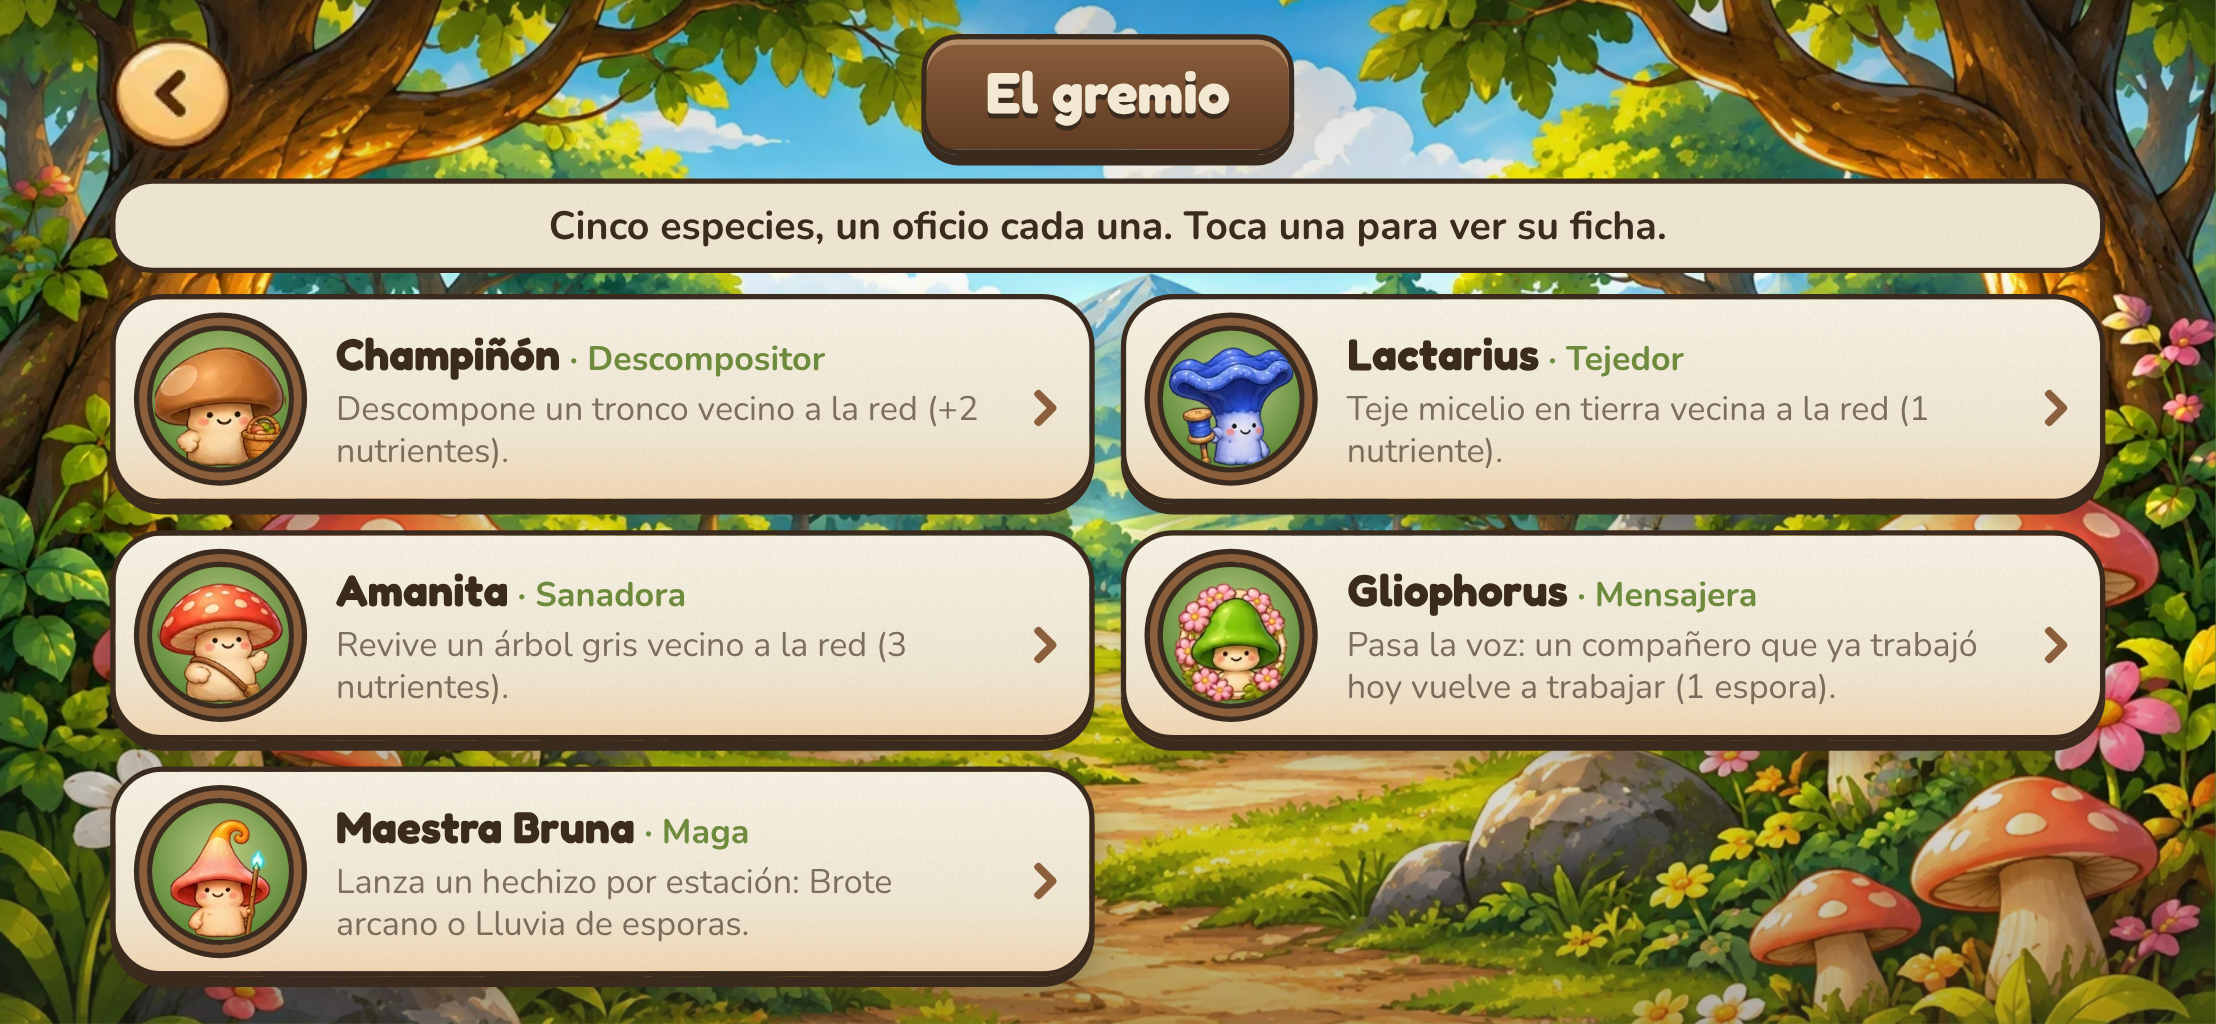
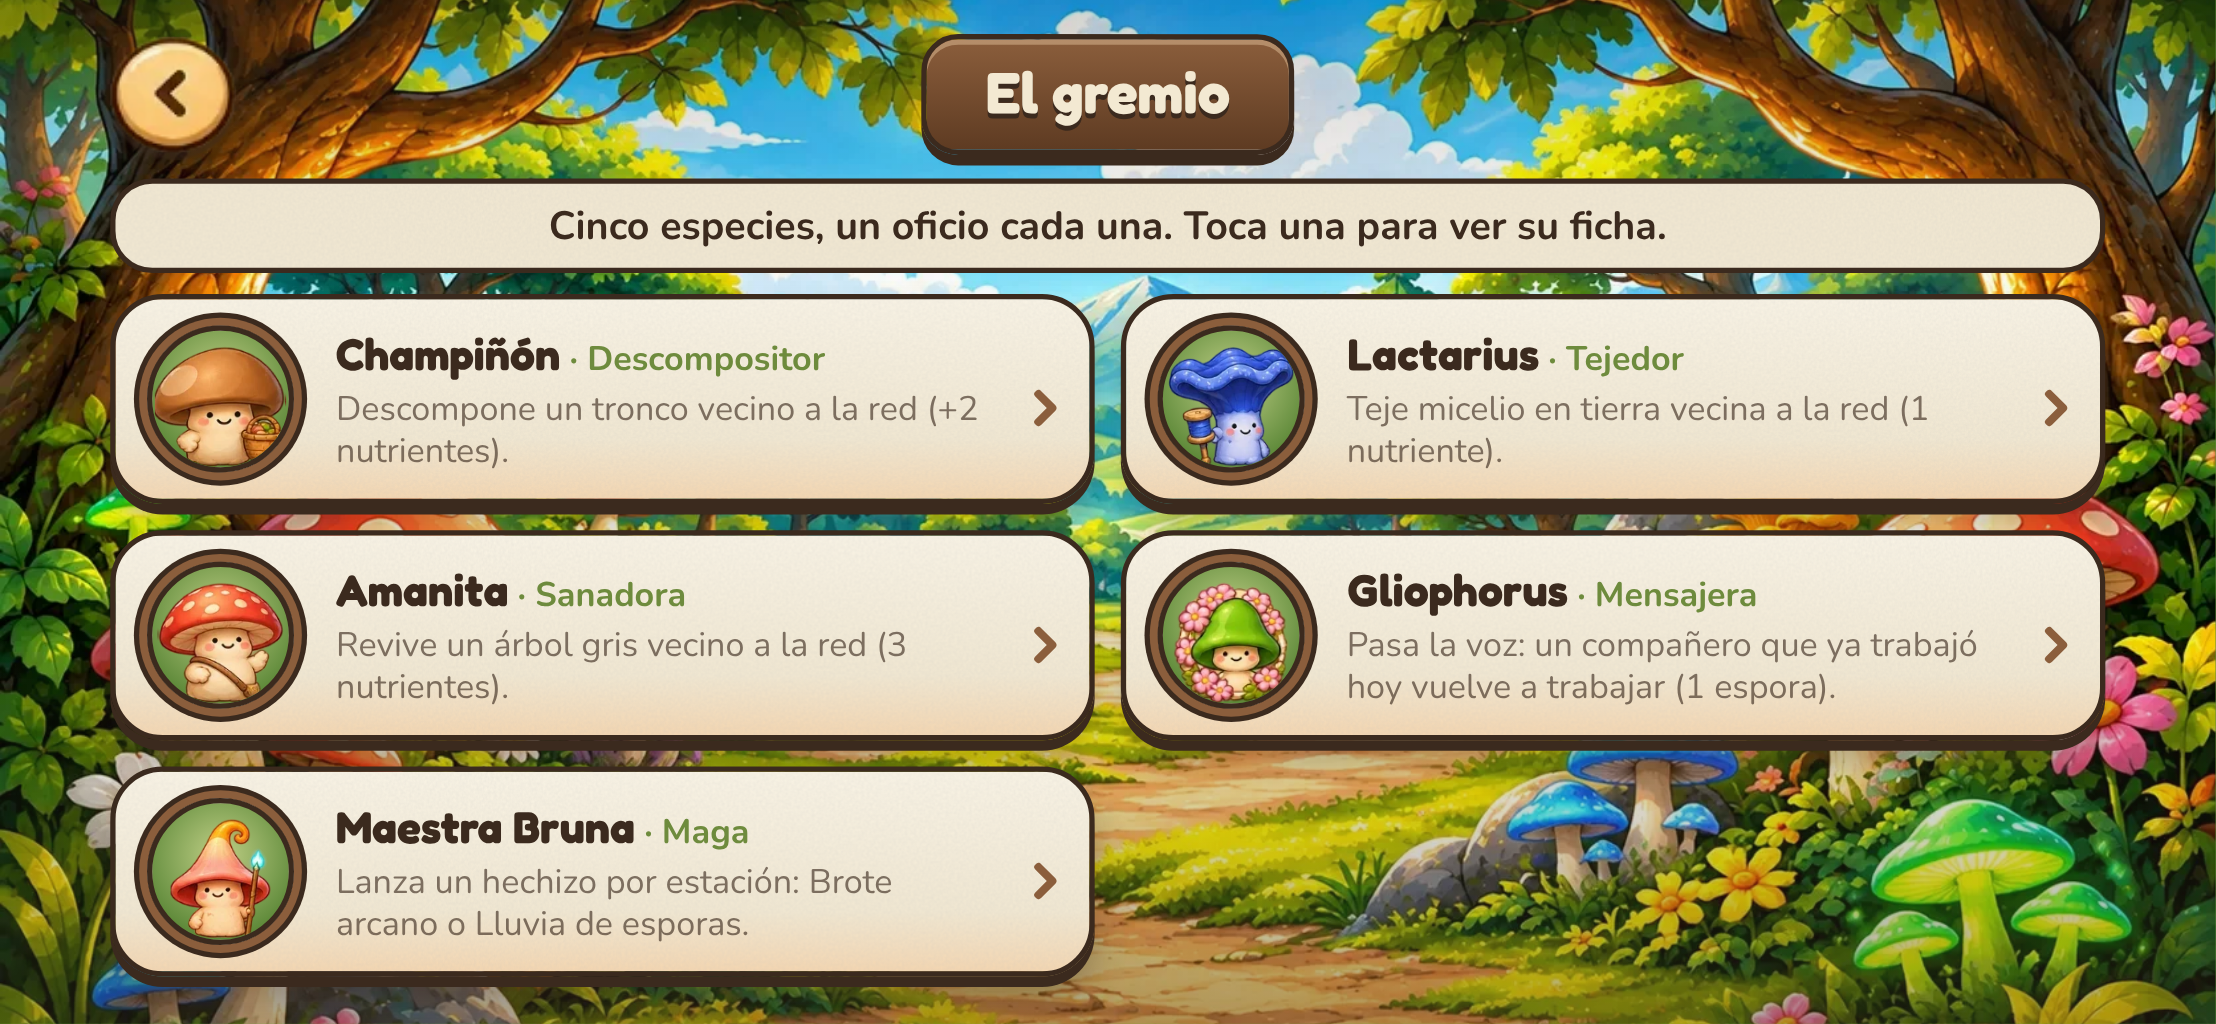
chore(assets): fondos nuevos del claro (partida y portada) y de la victoria
- backgrounds/menu y menu-landscape desde fondo-claro-v2 (corte vertical
  centrado y completo 16:9).
- backgrounds/victory y victory-landscape (nuevo) desde fondo-victoria-v2;
  se retira victory-wide. En apaisado la carta de final va a un costado para
  que el Árbol Padre se vea entero.
- Originales en assets/ui/source/. public/assets: 93 archivos, 2,49 MB.

Claude-Session: https://claude.ai/code/session_017xKxwTBbY17eFiTjGDxCPQ

diff --git a/src/styles.css b/src/styles.css
@@ -795,6 +795,9 @@ button { font: inherit; color: inherit; }
   .title__cast { margin-top: 0; }
   .story[data-bg='intro'] { background-image: linear-gradient(transparent 40%, color-mix(in srgb, var(--ink) 45%, transparent)), var(--art-bg-intro-wide); }
   .story[data-bg='victory'] { background-image: linear-gradient(transparent 40%, color-mix(in srgb, var(--ink) 35%, transparent)), var(--art-bg-victory-wide); }
+  /* El Árbol Padre queda al centro del fondo apaisado: la carta de final va a un costado. */
+  .story[data-kind='won'], .story[data-kind='lost'] { align-items: center; justify-content: flex-end; padding-right: max(24px, 5vw); }
+  .story[data-kind='won'] .story__card, .story[data-kind='lost'] .story__card { width: min(360px, 46%); }
   body {
     background:
       linear-gradient(color-mix(in srgb, var(--ink) 30%, transparent), transparent 25%, transparent 70%, color-mix(in srgb, var(--ink) 40%, transparent)),

diff --git a/src/theme.ts b/src/theme.ts
@@ -138,7 +138,7 @@ const UI_ART: Record<string, string> = {
   'bg-intro': 'backgrounds/intro',
   'bg-victory': 'backgrounds/victory',
   'bg-intro-wide': 'backgrounds/intro-wide',
-  'bg-victory-wide': 'backgrounds/victory-wide',
+  'bg-victory-wide': 'backgrounds/victory-landscape',
   moon: 'ui/icons/moon',
   recruit: 'ui/icons/recruit',
   sign: 'ui/panels/sign',

diff --git a/docs/art-direction.md b/docs/art-direction.md
@@ -61,7 +61,7 @@ Contraste mínimo de texto: Tinta sobre Pergamino, Crema o Sol (todos ≥ 7:1). 
 | Medallón del gremio | CSS + `characters/<personaje>/portrait` | Dock (011): aro de madera con el retrato, cinta con el nombre e insignia (★ sugerido, Zz descansa); seleccionado con aro Sol y halo; descansando desaturado. La acción se lee en la bitácora |
 | Pastilla de recurso | CSS + `ui/icons/nutrients`, `spores`, `trees` | Crema con contorno café: ícono + número arriba y etiqueta abajo (HUD, 011). El día va en una pastilla verde con el ícono de la estación |
 | Fin del día | CSS + `ui/icons/moon` | Píldora amarilla con la luna, a la derecha del dock (011) |
-| Fondo de la partida | `backgrounds/menu`, `menu-landscape` | Bosque pintado detrás del tablero con un velo arriba y abajo (011); se cambiará por un fondo de partida propio, sin camino al centro y a ≥ 860 px de ancho |
+| Fondo de la partida y portada | `backgrounds/menu`, `menu-landscape` | Claro con camino, montaña y hongos (hoja `fondo-claro-v2`, 2 de noviembre): completo en apaisado y corte vertical centrado en el teléfono, con un velo arriba y abajo |
 | Íconos | `ui/icons/*` | Pintados, con contorno café |
 | Marco de bosque | `ui/frames/forest` | Envuelve todas las pantallas; 9 partes |
 | Marco de raíces | `ui/frames/roots-pieces` | Envuelve el tablero; 9 partes |
@@ -106,7 +106,7 @@ FICHA                          EL GREMIO                      INTRO / VICTORIA
 - **Ficha:** retrato grande, nombre, nombre científico y rol, contexto, frase entre comillas y secciones con etiqueta verde (Habilidad, Movimiento, Nutrientes…), como la ficha actual.
 - **El gremio (012, hecho):** lista de las cinco especies, cada fila con su medallón, nombre, rol y una línea; abre la ficha encima.
 - **Intro (003, hecho):** fondo `backgrounds/intro` (bosque lila apagado), tres cartas de pergamino con letrero de madera ("El bosque se apaga", "Un gremio despierta", "Antes del invierno"), puntos de progreso, "Saltar" y "Siguiente"/"Comenzar". La llegada de Maestra Bruna usa la misma carta con su retrato.
-- **Victoria (003, hecho):** fondo `backgrounds/victory`, letrero "¡El bosque despertó!", texto y resumen (día, árboles, nutrientes, esporas); "Ver el claro" y "Jugar de nuevo" ("Ver resumen" se descartó: el resumen ya está en la carta). El fin del invierno usa el mismo layout con `backgrounds/intro`. En apaisado, las panorámicas `*-wide`.
+- **Victoria (003, hecho):** fondo `backgrounds/victory`, letrero "¡El bosque despertó!", texto y resumen (día, árboles, nutrientes, esporas); "Ver el claro" y "Jugar de nuevo" ("Ver resumen" se descartó: el resumen ya está en la carta). El fin del invierno usa el mismo layout con `backgrounds/intro`. En apaisado, el intro usa la panorámica `intro-wide`; la victoria usa `victory-landscape` (hoja `fondo-victoria-v2`: Árbol Padre dorado en el claro) con la carta a un costado para que el árbol se vea entero.
 
 ## Personajes
 - Cuerpo-tallo redondo, sombrero ≈ 55 % de la altura, cara mínima (ojos de punto, rubor, boca pequeña).
@@ -157,7 +157,7 @@ La saturación del progreso (003, hecho) va de apagado (40 % de color) a color p
 - **Piezas estirables:** marcos, pergamino, letrero, cinta y botones se entregan **en partes** (9 o 3 partes, con márgenes indicados) para que se estiren sin deformarse. Se usan con `border-image` o como capas.
 - **Estados por separado:** los brillos de casilla válida y seleccionada, y la ★, van como capas transparentes del mismo tamaño que la casilla.
 - **Sin texto horneado** (salvo el logo).
-- **Presupuesto:** `public/assets/` ≤ **4 MB** (decisión del 2 de noviembre; antes 2 MB). Hoy hay 2.19 MB. El JavaScript del juego no cuenta en este límite. Los fondos y piezas de portada, intro y victoria se cargan de forma diferida, cuando se muestra esa pantalla; la primera carga solo trae lo del tablero, los personajes y el HUD.
+- **Presupuesto:** `public/assets/` ≤ **4 MB** (decisión del 2 de noviembre; antes 2 MB). Hoy hay 2.49 MB. El JavaScript del juego no cuenta en este límite. Los fondos y piezas de portada, intro y victoria se cargan de forma diferida, cuando se muestra esa pantalla; la primera carga solo trae lo del tablero, los personajes y el HUD.
 - **Estaciones (010):** variantes pintadas por estación, sin gradación de color (descartada en el 003).
 
 ## Organización de assets
@@ -165,8 +165,8 @@ Lo que se publica vive en `public/assets/` (WebP). La fuente (Blender, renders a
 
 ```
 public/assets/
-├── backgrounds/        menu, intro, victory (verticales) · menu-landscape (16:9) ·
-│                       menu-wide, intro-wide, victory-wide (panorámicas ≈ 5,4:1)
+├── backgrounds/        menu, intro, victory (verticales) · menu-landscape, victory-landscape (16:9) ·
+│                       menu-wide, intro-wide (panorámicas ≈ 5,4:1)
 ├── board/
 │   ├── terrain/        grass, grass-b, grass-c, grass-autumn, grass-winter, dirt, sprout, sprout-seedling,
 │   │                   blocked, home, state-valid, state-selected
@@ -196,17 +196,17 @@ public/assets/
 - **Código:** `src/theme.ts` arma las rutas (`assetUrl`, `portraitKey`, `uiPortraitKey`, `CHARACTER_DIR`, `fatherKey`, `BOARD_ART`, y las variables CSS `--art-*` de la interfaz); ningún otro archivo escribe rutas de assets a mano.
 
 ## Inventario de piezas
-93 archivos publicados, 2.19 MB en total (el 010 sacó los sprites de Blender a `assets/sprites/webp/`). "Listo" significa que el ancho alcanza para 2× a 390 px; los demás sirven para maquetar y hay que reexportarlos. Retirados en la v2 por traer texto horneado o baja resolución: las tarjetas con placa (`card`), `ribbon-hint`, `page-dots` y `rock-dark`.
+93 archivos publicados, 2.49 MB en total (el 010 sacó los sprites de Blender a `assets/sprites/webp/`). "Listo" significa que el ancho alcanza para 2× a 390 px; los demás sirven para maquetar y hay que reexportarlos. Retirados en la v2 por traer texto horneado o baja resolución: las tarjetas con placa (`card`), `ribbon-hint`, `page-dots` y `rock-dark`.
 
 | Archivo | Origen | Tamaño | Peso | Estado |
 | --- | --- | --- | --- | --- |
-| `backgrounds/menu-landscape.webp` | fondo apaisado | 1672 × 941 | 415 KB | Listo |
+| `backgrounds/menu-landscape.webp` | fondo-claro-v2 | 1671 × 941 | 406 KB | Listo |
+| `backgrounds/victory-landscape.webp` | fondo-victoria-v2 | 1672 × 941 | 407 KB | Listo |
 | `backgrounds/menu-wide.webp` | panorámicas | 1670 × 310 | 162 KB | Listo como franja (310 px de alto); para pantalla completa haría falta ≥ 1080 px de alto |
 | `backgrounds/intro-wide.webp` | panorámicas | 1670 × 307 | 124 KB | Listo como franja (310 px de alto); para pantalla completa haría falta ≥ 1080 px de alto |
-| `backgrounds/victory-wide.webp` | panorámicas | 1670 × 312 | 157 KB | Listo como franja (310 px de alto); para pantalla completa haría falta ≥ 1080 px de alto |
 | `backgrounds/intro.webp` | logo y fondos | 465 × 631 | 55 KB | Baja resolución (objetivo 860 px de ancho) |
-| `backgrounds/menu.webp` | logo y fondos | 463 × 631 | 87 KB | Baja resolución (objetivo 860 px de ancho) |
-| `backgrounds/victory.webp` | logo y fondos | 466 × 631 | 93 KB | Baja resolución (objetivo 860 px de ancho) |
+| `backgrounds/menu.webp` | fondo-claro-v2 (corte vertical) | 527 × 941 | 110 KB | Usable; para 2× a 390 px haría falta ≥ 780 px de ancho |
+| `backgrounds/victory.webp` | fondo-victoria-v2 (corte vertical) | 527 × 941 | 119 KB | Usable; para 2× a 390 px haría falta ≥ 780 px de ancho |
 | `board/father-tree/asleep-painted.webp` | tablero HD | 590 × 450 | 79 KB | Listo |
 | `board/father-tree/autumn-painted.webp` | tablero v3 | 254 × 180 | 28 KB | Baja resolución (objetivo 380 px de ancho) |
 | `board/father-tree/awake-painted.webp` | tablero HD | 598 × 456 | 77 KB | Listo |
@@ -306,7 +306,7 @@ public/assets/
 - Los renders de Blender viven en `assets/sprites/` (PNG) y sus WebP de 176 × 128 (Maestra Bruna 176 × 160) en `assets/sprites/webp/`, como fuente.
 - **Árbol Padre:** desde el 010 el tablero usa `asleep-painted` / `awake-painted` a 1,35 casillas de ancho (`FATHER_SCALE`). El de Blender, `assets/blender/arbol-padre.blend` (estados en `estados_arbol.py`), queda como fuente en `assets/sprites/webp/board/father-tree/{asleep,awake}.webp` (176 × 192). Dormido: tronco retorcido gris, raíces largas y ramas desnudas. Despierto: corteza cálida y copa dorada en paraguas (hojas `#F2BC45`, sombra `#C98A2B`, luz `#FFE08A`) con borde que brilla `#FFE27A`, aura `#FFF4C2`, luces cálidas y destellos. En el tablero mide 1,2 casillas de ancho y su copa asoma por encima del marco. Sustituye en el tablero a los recortes `public/assets/ui/arbol-padre-*.webp` (placeholders de baja resolución). La v2 plantea dibujarlo de unas 3 casillas de ancho; hoy mide 1,2 (`FATHER_SCALE` en `theme.ts`) y queda pendiente decidir el tamaño final.
 - La silueta de cono de cada especie (`.hat--*` en `styles.css`) queda solo como respaldo si un retrato faltara.
-- Peso: todo `public/assets/` suma 2.19 MB en WebP (límite 4 MB).
+- Peso: todo `public/assets/` suma 2.49 MB en WebP (límite 4 MB).
 
 ## Referencias (`references/`)
 | Archivo | Tomamos | Dejamos |
